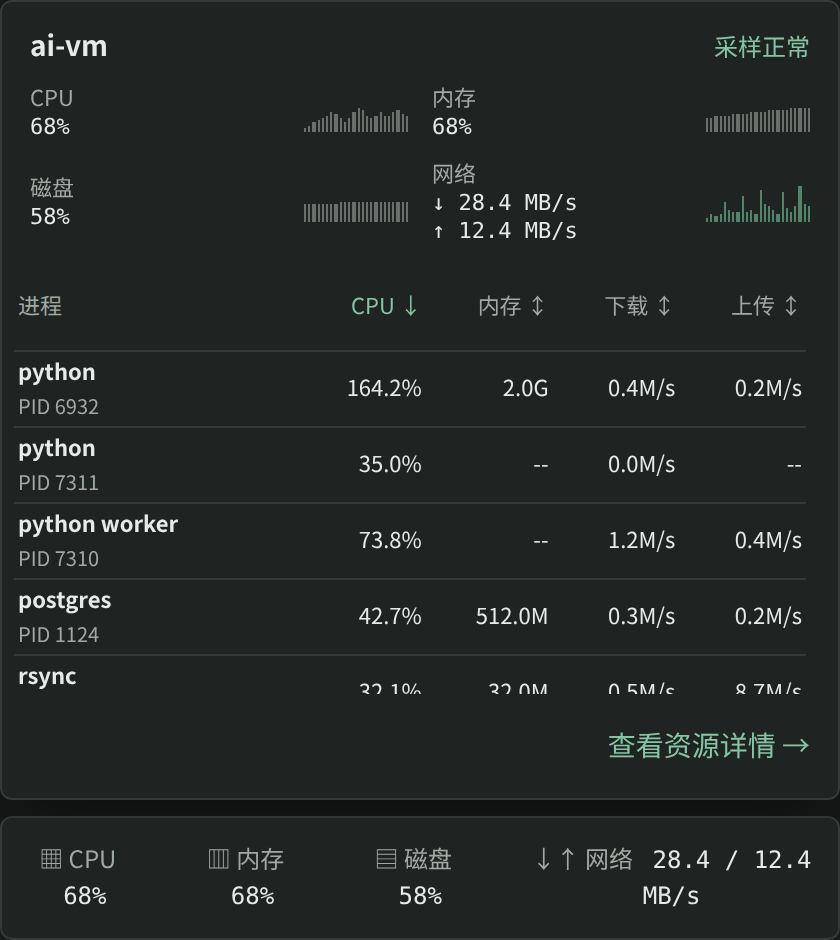
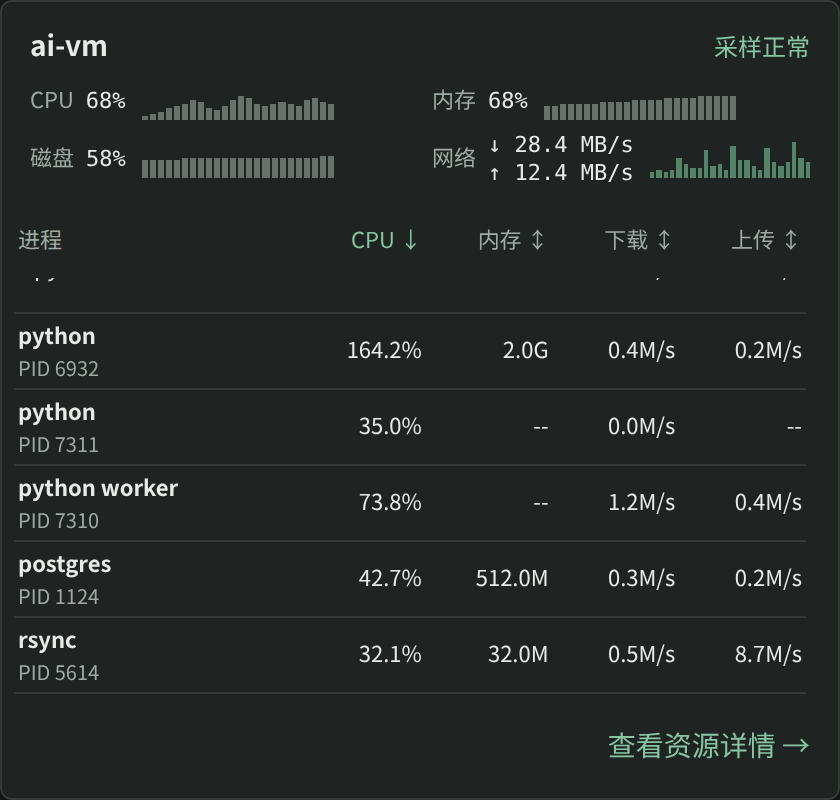
fix(design): 收紧浮窗指标区留白

diff --git a/designs/host-monitor/index.html b/designs/host-monitor/index.html
@@ -355,12 +355,12 @@ select{
 .quick-popover{background:var(--panel);border:1px solid var(--line);border-radius:6px;box-shadow:0 12px 36px #0007;height:min(400px,calc(100dvh - 120px));overflow:hidden;margin-bottom:8px;display:flex;flex-direction:column}
 .quick-head{display:flex;justify-content:space-between;align-items:center;padding:12px 14px 8px;flex:none}
 .quick-head strong{font-size:14px}
-.quick-summary{display:grid;grid-template-columns:repeat(2,minmax(0,1fr));gap:8px 12px;padding:0 14px 10px;color:var(--muted);font-size:11px;flex:none}
+.quick-summary{display:grid;grid-template-columns:repeat(2,minmax(0,1fr));gap:6px 12px;padding:0 14px 8px;color:var(--muted);font-size:11px;flex:none}
 .quick-summary b{color:var(--text);font-weight:500}
-.quick-metric{display:flex;align-items:center;justify-content:space-between;gap:4px;min-width:0}
-.quick-metric-text{min-width:0;line-height:1.35}
+.quick-metric{display:flex;align-items:center;gap:8px;min-width:0}
+.quick-metric-text{display:flex;align-items:center;gap:6px;min-width:0;line-height:1.25}
 .quick-metric-text b{display:block;white-space:nowrap}
-.quick-sparkline{width:52px;height:18px;display:flex;align-items:end;gap:1px;flex:none}
+.quick-sparkline{width:52px;min-width:32px;max-width:96px;height:18px;display:flex;align-items:end;gap:1px;flex:1}
 .quick-sparkline i{flex:1;min-width:0;background:#909b95;opacity:.65}
 .quick-sparkline.green i{background:#70b991}
 .quick-content{padding:0 6px;flex:1;min-height:0;display:flex;flex-direction:column}
@@ -642,6 +642,7 @@ dialog::backdrop{
   }
 }
 @media(max-width:350px){
+  .quick-metric-text{display:block}
   .quick-sparkline{width:40px}
   .quick-table th:not(:first-child){width:46px}
   .quick-table td:not(:first-child){font-size:10px}

diff --git a/designs/host-monitor/README.md b/designs/host-monitor/README.md
@@ -8,7 +8,7 @@
 
 进程表采用紧凑行布局；“采集说明”默认收起，展开后查看缺测说明和保护原因。内存示例为 RSS，可能包含共享页，各进程之和不等于主机已用内存。
 
-浮窗宽度最多 420px，窄屏两侧保留 16px；标准高度固定为 400px，低高度视口内适当缩短并为状态条留空间。指标区和底部链接固定，进程区独立滚动，表头保持可见；展开分组和切换状态不会改变浮窗高度。四项指标的短柱均为示例历史数据，不进行实时采样；磁盘表示容量使用率而非 I/O，网络按上下行合计的示例速率归一化。
+浮窗宽度最多 420px，窄屏两侧保留 16px；标准高度固定为 400px，低高度视口内适当缩短并为状态条留空间。指标文字与图固定间距 8px；图高 18px，宽度按可用空间伸缩且最多 96px。指标区和底部链接固定，进程区独立滚动，表头保持可见；展开分组和切换状态不会改变浮窗高度。四项指标的短柱均为示例历史数据，不进行实时采样；磁盘表示容量使用率而非 I/O，网络按上下行合计的示例速率归一化。
 
 “释放”表示结束进程，可能中断任务并丢失未保存数据；示例仅模拟操作。守护进程受保护，不能释放。确认框支持取消、Esc 和失败重试；示例进程已退出时移除该行，提示无需重复结束。浏览器控制台可运行 `hostMonitorSelfCheck()`，检查升降序、分组汇总、部分缺测、内存和显存零值及缺测排序与受保护进程；断言失败会抛错。
 
